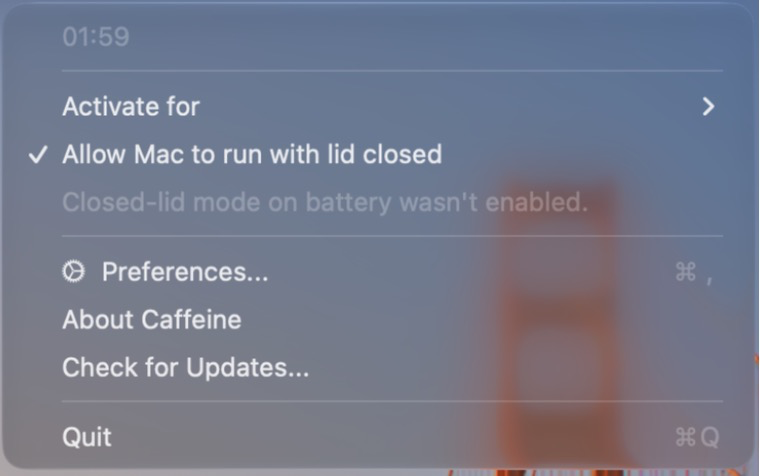
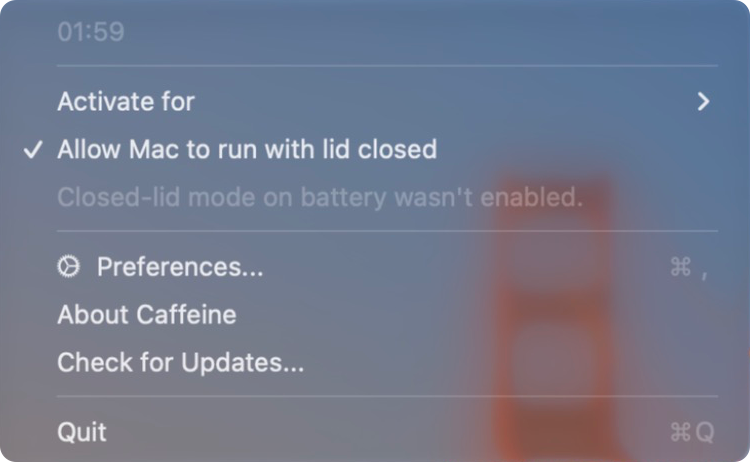
README screenshots: crop to the UI edge with rounded, transparent corners
Each screenshot is cropped exactly to the menu/window edge and masked with
an antialiased rounded rect whose radius (16 px) was fitted to the UI's own
corner curve, so no wallpaper shows at the corners. README widths set to
half the new pixel widths for crisp Retina rendering.

diff --git a/README.md b/README.md
@@ -31,7 +31,7 @@ Caffeine is a small menu-bar utility that prevents your Mac from going to sleep,
 ## Tutorial: the two new toggles
 
 <p align="center">
-  <img src="docs/images/preferences.png" width="410" alt="Caffeine Preferences: Launch at Login, Allow Mac to run with lid closed, and Restore sleep on battery below">
+  <img src="docs/images/preferences.png" width="409" alt="Caffeine Preferences: Launch at Login, Allow Mac to run with lid closed, and Restore sleep on battery below">
 </p>
 
 ### Launch at Login
@@ -41,7 +41,7 @@ Open Preferences (right-click cup → *Preferences…*) and switch on **Launch a
 ### Allow Mac to run with lid closed
 
 <p align="center">
-  <img src="docs/images/menu-lid-toggle.png" width="308" alt="Caffeine menu with Allow Mac to run with lid closed checked">
+  <img src="docs/images/menu-lid-toggle.png" width="303" alt="Caffeine menu with Allow Mac to run with lid closed checked">
 </p>
 
 Switch on **Allow Mac to run with lid closed** — right-click the cup and pick it from the menu (a checkmark shows it's on), or use the checkbox in Preferences. Then activate Caffeine (click the cup). You can now close the lid and the Mac keeps running — on AC power or on battery. Useful for downloads, long renders, or streaming to an external display while the laptop is shut.
@@ -60,7 +60,7 @@ Switch on **Allow Mac to run with lid closed** — right-click the cup and pick 
 | when **activating** Caffeine with the toggle already on | Caffeine still activates, but lid-closed operation works **only when plugged in (AC power)**. The menu shows a grey *"Closed-lid mode on battery wasn't enabled."* under the toggle. Activate again and confirm Touch ID to get battery mode. |
 
 <p align="center">
-  <img src="docs/images/menu-lid-not-enabled.png" width="380" alt="Caffeine menu showing: Closed-lid mode on battery wasn't enabled">
+  <img src="docs/images/menu-lid-not-enabled.png" width="375" alt="Caffeine menu showing: Closed-lid mode on battery wasn't enabled">
 </p>
 
 **Sleep is always restored** when you deactivate Caffeine, when its timer ends, when you quit it (including `killall Caffeine`), and — if it crashed — the next time it starts. On battery, it also turns off below the level set in **Restore sleep on battery below** (default 20 %). Whenever sleep is restored with the lid already closed and no external display connected, the Mac goes to sleep.

diff --git a/README.zh-Hant.md b/README.zh-Hant.md
@@ -31,7 +31,7 @@ Caffeine 是一個小巧的選單列工具，可以防止 Mac 進入睡眠、螢
 ## 教學：兩個新開關
 
 <p align="center">
-  <img src="docs/images/preferences.png" width="410" alt="Caffeine 偏好設定：登入時啟動、闔蓋時保持運作、電池電量低於此值時恢復睡眠">
+  <img src="docs/images/preferences.png" width="409" alt="Caffeine 偏好設定：登入時啟動、闔蓋時保持運作、電池電量低於此值時恢復睡眠">
 </p>
 
 （截圖為英文介面；繁體中文介面的項目位置相同。）
@@ -43,7 +43,7 @@ Caffeine 是一個小巧的選單列工具，可以防止 Mac 進入睡眠、螢
 ### 闔蓋時保持運作
 
 <p align="center">
-  <img src="docs/images/menu-lid-toggle.png" width="308" alt="Caffeine 選單：闔蓋時保持運作已勾選">
+  <img src="docs/images/menu-lid-toggle.png" width="303" alt="Caffeine 選單：闔蓋時保持運作已勾選">
 </p>
 
 右鍵點杯子，在選單點選 **闔蓋時保持運作**（打勾代表已開啟），也可以用偏好設定裡的勾選框。接著點杯子啟用 Caffeine，之後闔上蓋子，Mac 仍會繼續執行，接電源或用電池都可以。適合下載檔案、長時間轉檔，或把筆電接上外接螢幕、闔起來當主機用。
@@ -62,7 +62,7 @@ Caffeine 是一個小巧的選單列工具，可以防止 Mac 進入睡眠、螢
 | 開關已開啟、**啟用** Caffeine 時 | Caffeine 仍會啟用，但闔蓋運作**只在接上電源（AC）時有效**。選單會在開關下方顯示灰色的「未能開啟電池供電時的闔蓋模式。」重新啟用一次並用 Touch ID 確認，就能開啟電池模式。 |
 
 <p align="center">
-  <img src="docs/images/menu-lid-not-enabled.png" width="380" alt="Caffeine 選單顯示：電池供電時的闔蓋模式未啟用">
+  <img src="docs/images/menu-lid-not-enabled.png" width="375" alt="Caffeine 選單顯示：電池供電時的闔蓋模式未啟用">
 </p>
 
 **睡眠一定會還原**：停用 Caffeine、計時結束、結束 Caffeine（包含 `killall Caffeine`），或當機後下次啟動時都會還原。使用電池時，只要電量低於 **電池電量低於此值時恢復睡眠** 的設定值（預設 20%），闔蓋模式也會自動關閉。還原睡眠時，如果蓋子已經闔上又沒有接外接螢幕，Mac 會直接進入睡眠。
